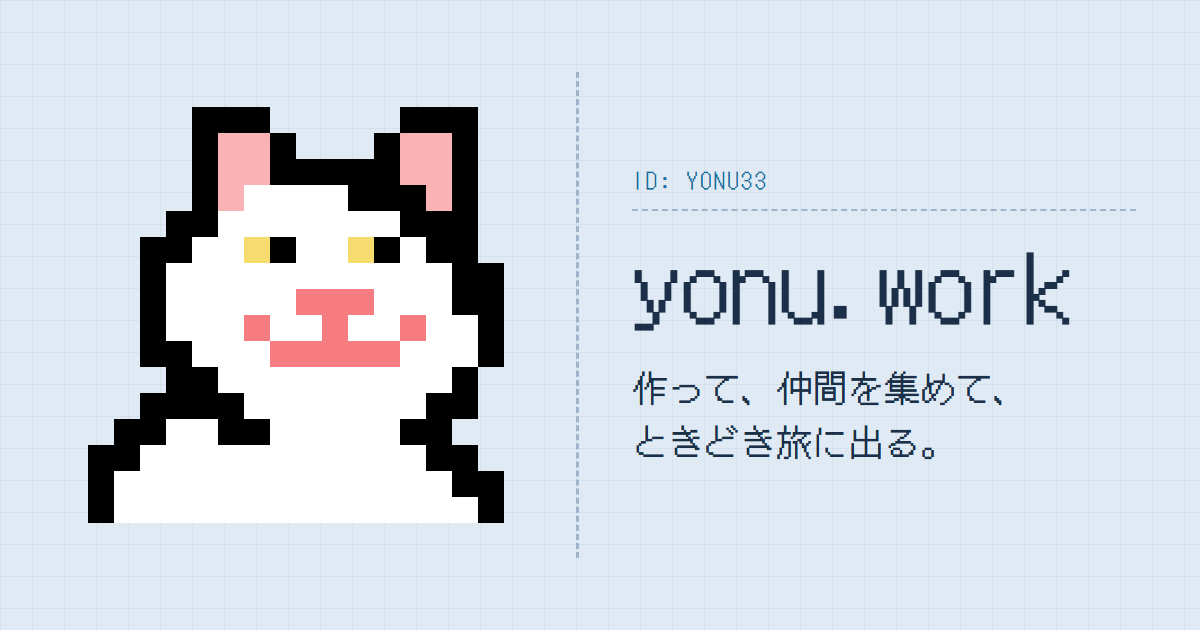
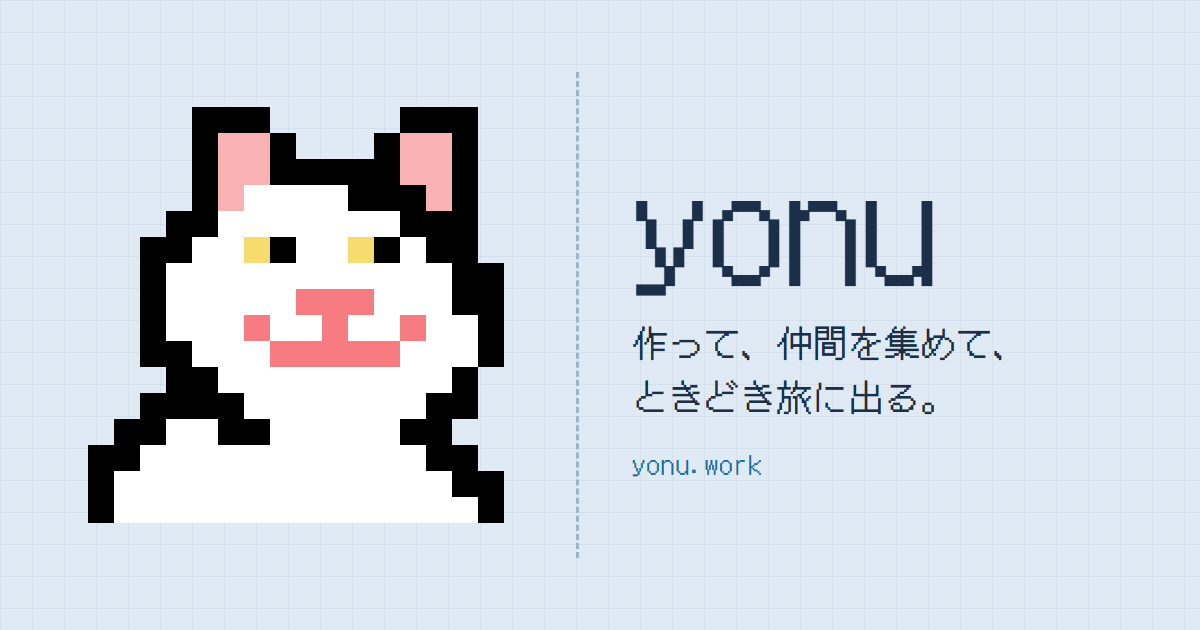
update: DJ events in history, OGP image with the name as the main text
- History: GLAZE 54 (2026.07.12) and INNERSPACE x3 as one line
- OGP image: big "yonu", tagline, small yonu.work; drop the ID line
- generate-og: ignore temp-folder cleanup failures

Changed region(s): [[0.5242, 0.2714, 0.8942, 0.754]]

diff --git a/src/data/history.js b/src/data/history.js
@@ -20,8 +20,10 @@ export const history = [
   { date: "2026.03.29", text: "『GDGoC Japan Hackathon 2026 Develop Grand Final（Tokyo）』にスタッフ（司会）として参加", href: "https://gdg.community.dev/events/details/google-gdg-on-campus-university-of-aizu-fukushima-japan-presents-gdgoc-japan-hackathon/cohost-gdg-on-campus-tokyo-metropolitan-university-tokyo-japan/" },
   { date: "2026.04.01", text: "GDGoC Aizu Organizer（Main）に就任", href: "https://gdg.community.dev/gdg-on-campus-university-of-aizu-fukushima-japan/" },
   { date: "2026.04.18", text: "GDGoC Aizuとして『Zli 技術座談会 2026』に参加", href: "https://zli.connpass.com/event/389581/" },
+  { date: "2026.04.24 - 11.13", text: "AizuDMC の部内DJイベント『INNERSPACE』にDJとして出演（計3回）", href: "https://x.com/aizudmc" },
   { date: "2026.04.29", text: "『【新入生歓迎】GDGoC Aizu Vibe Coding Hackathon 〜ノリとAIで爆速アプリ開発！〜』のスタッフとして参加", href: "https://gdg.community.dev/events/details/google-gdg-on-campus-university-of-aizu-fukushima-japan-presents-xin-ru-sheng-huan-ying-gdgoc-aizu-vibe-coding-hackathon-noritoaidebao-su-apurikai-fa/" },
   { date: "2026.05.09", text: "『GDG on Campus Japan 関西合同新歓』の会津会場スタッフとして参加", href: "https://gdg.community.dev/events/details/google-gdg-on-campus-university-of-osaka-osaka-japan-presents-gdg-on-campus-japan-guan-xi-he-tong-xin-huan/cohost-gdg-on-campus-university-of-aizu-fukushima-japan" },
+  { date: "2026.07.12", text: "AizuDMC 主催『GLAZE 54』にDJとして出演（会場：karan堂）", href: "https://x.com/aizudmc/status/2074037209376948614" },
   { date: "2026.08.08", text: "『夏休みプランニングLT会2026』を主催", href: "https://gdg.community.dev/events/details/google-gdg-on-campus-university-of-aizu-fukushima-japan-presents-xia-xiu-mipuranningulthui-2026/" },
   { date: "2026.08.16", text: "会津大学アニメ研究会の部誌に『日韓オタクカルチャー最前線ーー韓国における日本のオタク文化の流行と双方向の循環について』を寄稿し、『コミックマーケット108』に参加", href: "https://duani.booth.pm/items/8763624" },
   { date: "2026.08.28 - 09.08", text: "韓国に12日間滞在（ソウル・義王・釜山・全州・光州・益山・群山・大田）"},

diff --git a/scripts/og/og.html b/scripts/og/og.html
@@ -47,17 +47,10 @@
     top: 50%;
     transform: translateY(-50%);
   }
-  .meta {
-    padding-bottom: 14px;
-    margin-bottom: 22px;
-    border-bottom: 2px dashed #9db4ca;
-    color: #176f9f;
-    font-size: 22px;
-    letter-spacing: 0.12em;
-  }
+  /* 名前を主役に（トップの切符と同じく「yonu」をいちばん大きく） */
   .name {
-    font-size: 96px;
-    line-height: 1;
+    font-size: 150px;
+    line-height: 0.9;
     letter-spacing: 0.01em;
   }
   .lead {
@@ -65,15 +58,22 @@
     font-size: 36px;
     line-height: 1.5;
   }
+  /* 画像の外にドメインを出さないサービス（Discord など）向けに、サイト名も小さく添える */
+  .site {
+    margin-top: 22px;
+    color: #176f9f;
+    font-size: 26px;
+    letter-spacing: 0.06em;
+  }
 </style>
 </head>
 <body>
   <img class="cat" src="cat.png" alt="">
   <div class="perforation"></div>
   <div class="text">
-    <p class="meta">ID: YONU33</p>
-    <p class="name">yonu.work</p>
+    <p class="name">yonu</p>
     <p class="lead">作って、仲間を集めて、<br>ときどき旅に出る。</p>
+    <p class="site">yonu.work</p>
   </div>
 </body>
 </html>
